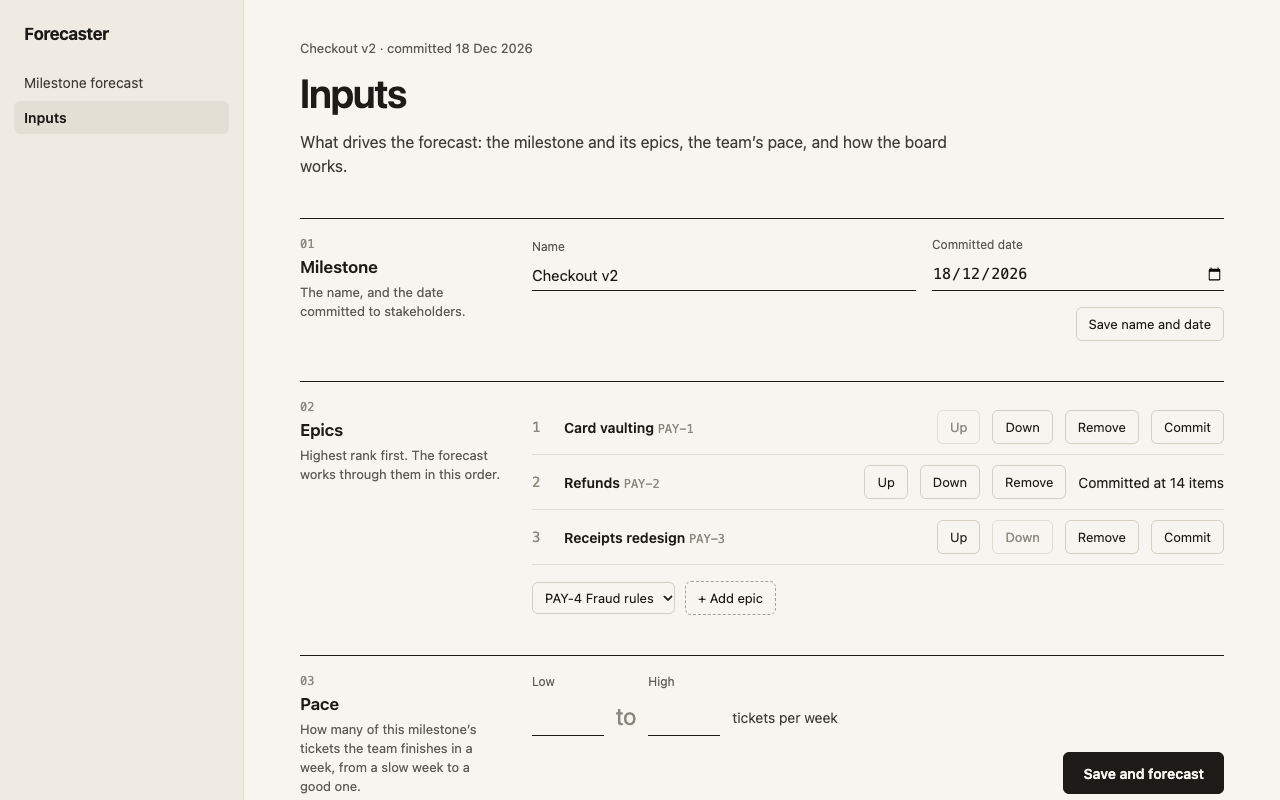
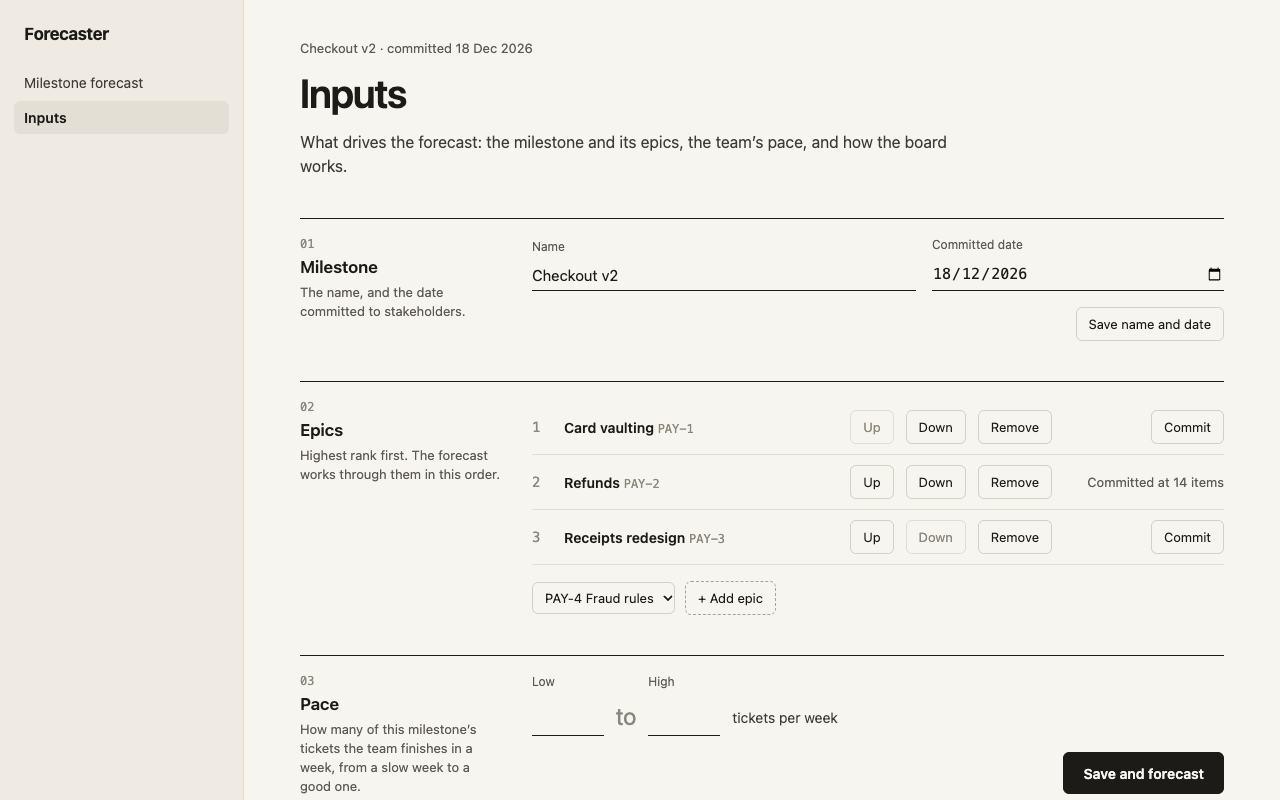
App: line up each epic row's buttons, committed or not (#19)
The last column of an epic row holds Commit or "Committed at N items"
at one width, so Up, Down and Remove sit in the same place on every
row. The Inputs demos are recaptured.

diff --git a/src/app/html.ts b/src/app/html.ts
@@ -155,9 +155,12 @@ const STYLE = `
     .rows { display: flex; flex-direction: column; }
     .row { display: grid; align-items: center; gap: 16px; padding: 12px 0; border-bottom: 1px solid var(--hairline); }
     ol.epics { list-style: none; margin: 0; padding: 0; counter-reset: rank; }
-    ol.epics form { display: grid; grid-template-columns: 20px minmax(0, 1fr) auto auto auto auto; flex-direction: row; gap: 8px 12px; align-items: center; padding: 10px 0; border-bottom: 1px solid var(--hairline); }
+    ol.epics form { display: grid; grid-template-columns: 20px minmax(0, 1fr) auto auto auto 160px; flex-direction: row; gap: 8px 12px; align-items: center; padding: 10px 0; border-bottom: 1px solid var(--hairline); }
     ol.epics form::before { counter-increment: rank; content: counter(rank); font-family: var(--mono); color: var(--faint); }
     ol.epics .name { font-weight: 600; }
+    /* The last column holds Commit or the commit's text, at one width so every row's buttons line up. */
+    ol.epics form > :last-child { justify-self: end; }
+    ol.epics .note { font-size: 13px; color: var(--muted); white-space: nowrap; }
     ol.epics .key, .epic-choice .key { font-family: var(--mono); font-size: 12px; color: var(--faint); font-weight: 400; }
     section.input form.add { flex-direction: row; align-items: center; gap: 10px; }
     fieldset { margin: 0; padding: 0; border: 0; display: flex; flex-direction: column; }
